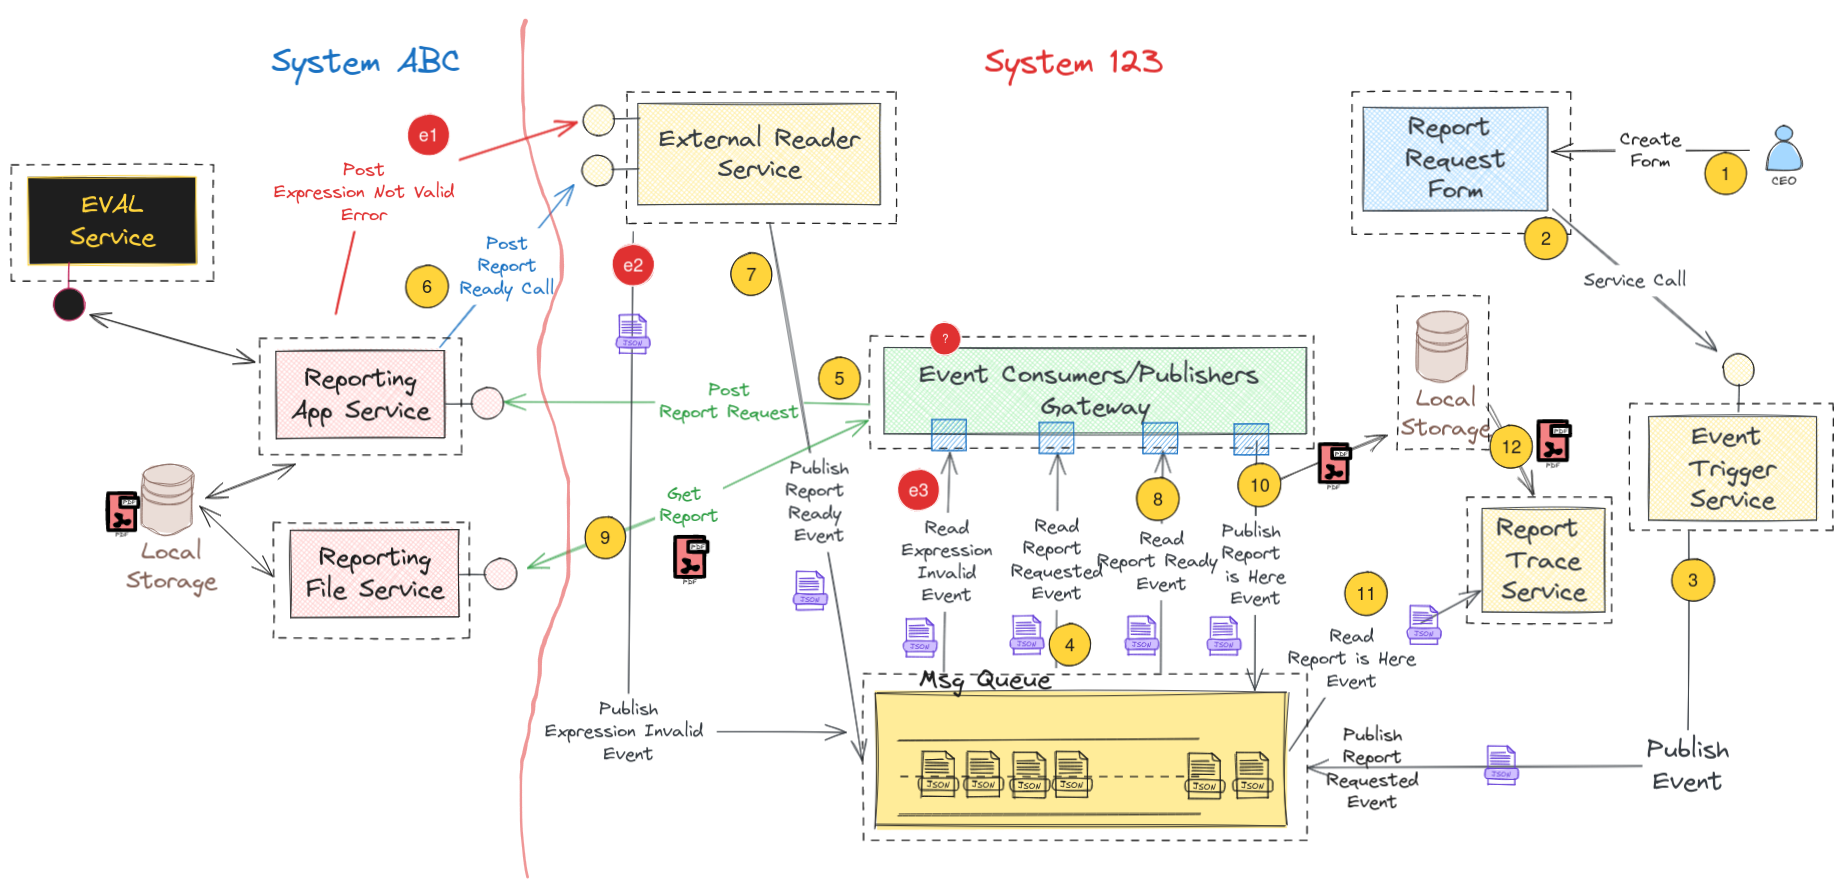
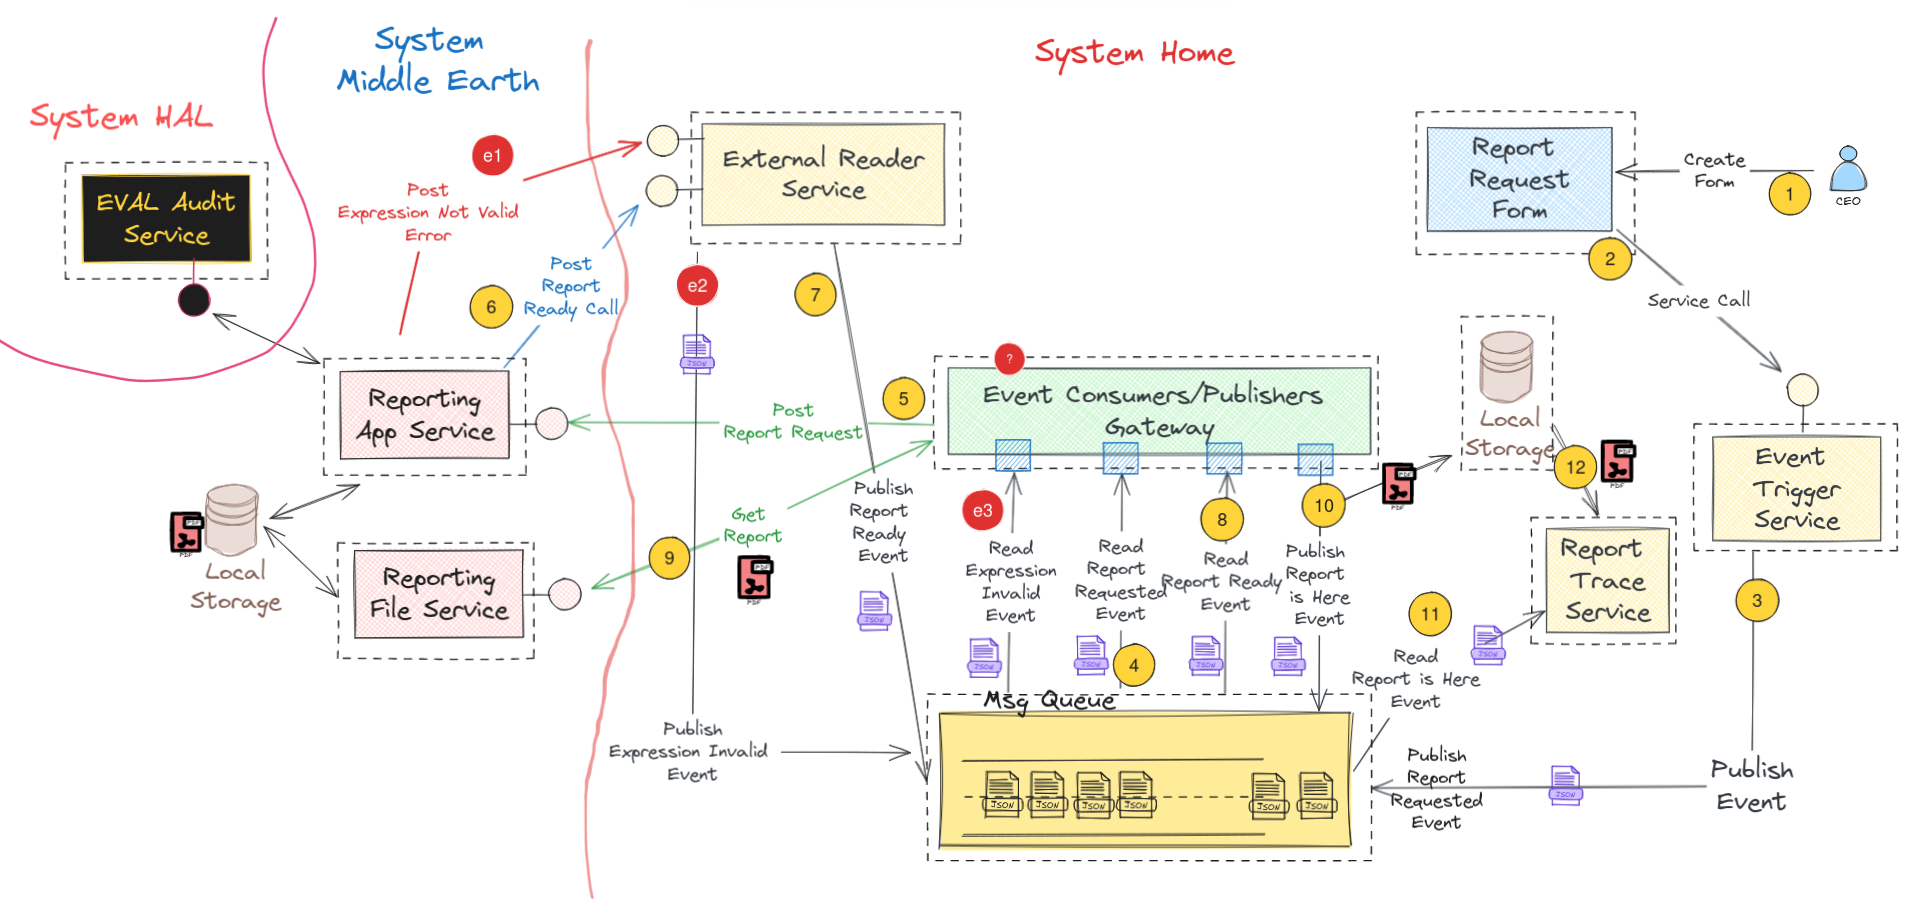
Updated readme document.

diff --git a/README.md b/README.md
@@ -10,6 +10,12 @@ Projeye katkı vermek isteyenler dev branch'inden yeni bir branch açıp ilerley
 
 Kullanıcılarına oyun kiralayan bir internet şirketi olduğunu düşünelim. Şirketin son kullanıcılara _(End Users)_ sunduğu web ve mobile bazlı uygulamalar dışında şirket genel merkezinde kullanılan Back Office tadında farklı bir uygulamaları daha var. Bu uygulamada yer alan ekranlardan birisi de raporlama talepleri için kullanılıyor. Şirketin sahip olduğu veri miktarı ve rapor taleplerinin belli bir onay sürecinden geçip içeriklerini farklı alanlardan toplaması nedeniyle bir raporun çekilmesi bazen birkaç dakikayı bulabiliyor. Her ne kadar şirket içerisinde bu işleri üstelenen bir raporlama ekibi bulunsa da personelin kullandığı web sayfalarında bu şekilde belirsiz süreyle beklenmeleri istenmiyor. Çözüm olarak rapor talebinin girildiği bir formun tasarlanması ve talebin raporlama ekibine ait uygulamalara ulaştırılıp hazır hale geldikten sonra personelin bilgilendirilmesi şeklinde bir yol izlenmesine karar veriliyor. Tüm bu sürecin tamamen sistem tarafından gerçekleştirilmesi ve otomatize edilmesi isteniyor.
 
+```text
+İşte Örnek Bir Rapor İfadesi
+
+Geçtiğimiz yıl kiraladığımız oyunlardan en çok pozitif yorum alan ilk 25 adedinin ülke bazlı satış rakamları.
+```
+
 ## Çözümleme ile İlgili Bilgiler
 
 Buradaki senaryonun çözümü noktasında oldukça basit ilerlemeye çalışacağım. Bu amaçla tek bir solution içerisinde tüm paydaşların .Net tabanlı uygulamaları olacak. Kilit noktalardan birisi raporların hazırlanmasının uzun sürmesi ve bizim backoffice personelinin rapor talep ettiği sayfada iken bekletmek istemeyişimiz. Rapor hazırlandığında ise onu bir şekilde bilgilendirmemiz. Uygulama açıksa belki bir popup ile ve hatta ekstradan e-posta bildirimi ile. Tahmin edileceği üzere aynı Solution içerisinde bir çözümle yapacak olsak da çözüme dahil olan Process'ler network üzerinde farklı lokasyonlardaki Node'larda çalışıyor olabilirler.
@@ -36,7 +42,7 @@ Senaryodaki adımları da aşağıdaki gibi tarifleyelim.
 12. Report Trace Service hizmeti, **ReportIsHereEvent** isimli bir olay yakaladığında **Local Storage**'a gider ve ilgili PDF'i çeker.
 13. Rapor artık hazırdır. Rapor e-posta ile CEO'ya gönderilir ve Local Storage ortamlarında gerekli temizlikler yapılır.
 
-Senaryoda dikkat edileceği üzere bazı ihlal noktaları da vardır. Örneğin Form uygulamasından girilen rapor talebindeki ifade geçersiz olabilir. Sistemden bilgi sızdırmaya yönelik güvensiz ifadeler içerebilir vs. Bu gibi bir durumda System ABC'nin geçersiz bir mesaj olduğuna dair System 123'ü bilgilendirmesi de gerekir. System ABC'nin kendi içinde ele alıp detay loglarla değerlendirdiği bu durum System 123'e bir Event olarak girer ve buna karşılık da bir süreç başlayabilir. Resimde görülen soru işaret kısmı dikkat edileceği üzere hata durumu yakalandıktan sonra ne yapılacağına dairdir. Rapor talebi sahibinin bilgilendirilmesi için e-posta gönderimi, sistem loglarına bilgi düşülmesi, form uygulamasında popup ile bilgilendirme yapılması vs gibi bir işler bütünü başlatılabilir.
+Senaryoda dikkat edileceği üzere bazı ihlal noktaları da vardır. Örneğin Form uygulamasından girilen rapor talebindeki ifade geçersiz olabilir. Sistemden bilgi sızdırmaya yönelik güvensiz ifadeler içerebilir vs. Bu gibi bir durumda SystemMiddleEarth'nin geçersiz bir mesaj olduğuna dair SystemHome'ü bilgilendirmesi de gerekir. SystemMiddleEarth'nin kendi içinde ele alıp detay loglarla değerlendirdiği bu durum SystemHome'e bir Event olarak girer ve buna karşılık da bir süreç başlayabilir. Resimde görülen soru işaret kısmı dikkat edileceği üzere hata durumu yakalandıktan sonra ne yapılacağına dairdir. Rapor talebi sahibinin bilgilendirilmesi için e-posta gönderimi, sistem loglarına bilgi düşülmesi, form uygulamasında popup ile bilgilendirme yapılması vs gibi bir işler bütünü başlatılabilir.
 
 ## Solution için Aday Uygulama Türleri
 
@@ -55,15 +61,15 @@ Senaryoda dikkat edileceği üzere bazı ihlal noktaları da vardır. Örneğin 
 - [ ] Solution yapısı ve proje isimlendirmeleri gözden geçirilebilir.
 - [x] Solution için **Sonarqube** entegrasyonu yapılıp kod kalite metrikleri ölçümlenebilir.
 - [ ] Bazı kütüphaneler için birim testler _(Unit Tests)_ yazılarak **Code Coverage** değerleri yükseltilebilir.
-- [ ] Kahin _(System ABC)_ sistemindeki projeler için ayrı bir **Solution** açılabilir.
+- [ ] Kahin _(SystemMiddleEarth)_ sistemindeki projeler için ayrı bir **Solution** açılabilir.
 - [ ] Loglama altyapısı **Elasticsearch**'e alınabilir.
 - [ ] Messenger servisi **gRPC** türüne evrilebilir.
-- [ ] Bazı **Exception** durumları için **Custom Exception** sınıfları yazılabilir.
+- [ ] Bazı **Exception** durumları için **Custom Exception** sınıfları yazılabilir. Ancak servis tarafında Exception döndürmek yerine hata ile ilgili bilgi barındıran bir Response mesaj döndürülmesi daha iyi olabilir.
 - [ ] Daha önceden çekilmiş raporlar için tekrardan üretim sürecini başlatmak yerine **Redis** tabanlı bir caching sistemi kullanılabilir.
 - [ ] Tüm servisler **HTTPS** protokolünde çalışacak hale getirilebilir.
-- [ ] Uçtan uca testi otomatik olarak yapacak bir **RPA _(Robotik Process Automation)_** eklentisi konulabilir. Belki otomatij **UI** testleri için **Playwright** aracından yararlanılabilir.
+- [ ] Uçtan uca testi otomatik olarak yapacak bir **RPA _(Robotik Process Automation)_** eklentisi konulabilir. Belki otomatik **UI** testleri için **Playwright** aracından yararlanılabilir.
 - [ ] Bazı servislerin ayakta olup olmadıklarını kontrol etmek için bu servislere **HealthCheck** fonksiyonları eklenebilir.
-- [ ] URL adresleri, RabbitMQ ortam bilgileri **(Development, Test, Pre-Production, Production)** gibi alanlar için daha güvenli bir ortamdan **(Secure Vault)** tedarik edilecek şekilde genel bir düzenlemeye gidilebilir.
+- [ ] URL adresleri, **RabbitMQ** ortam bilgileri **(Development, Test, Pre-Production, Production)** gibi alanlar için daha güvenli bir ortamdan **(Secure Vault)** tedarik edilecek şekilde genel bir düzenlemeye gidilebilir.
 - [ ] ...
 
 ## Runtime _(Standart)_
@@ -73,10 +79,10 @@ Senaryoda dikkat edileceği üzere bazı ihlal noktaları da vardır. Örneğin 
 **Not: Buradaki ve çözüme sonradan eklenecek uygulamaları tek seferde çalıştırmak için bir shell script dosyamız var. run_all.sh isimli dosyayı bu amaçla kullanabilirsiniz.**
 
 - [ ] **RabbitMQ**'nun çalışır halde olduğu kontrol edilir. (localhost:15672)
-- [ ] System ABC'deki **Kahin.ReportingGateway** servisi çalıştırılır. (localhost:5218)
-- [ ] System 123'de yer alan **GamersWorld.Messenger** servisi çalıştırılır. Web uygulaması bu servisi kullanır. (localhost:5234)
+- [ ] **SystemMiddleEarth**'deki **Kahin.ReportingGateway** servisi çalıştırılır. (localhost:5218)
+- [ ] **SystemHome**'de yer alan **GamersWorld.Messenger** servisi çalıştırılır. Web uygulaması taleplerini iletmek için bu servisi kullanır. (localhost:5234)
 - [ ] RabbitMQ event'lerini dinleyen **GamersWorld.EventHost** console uygulaması çalıştırılır. Console uygulamasıdır.
-- [ ] Rapor ifadesini denetleyen **Eval.Api** servisi çalıştırılır. (localhost:5147)
+- [ ] Rapor ifadesini denetleyen **SystemHAL** sistemindeki **Eval.AuditApi** servisi çalıştırılır. (localhost:5147)
 - [ ] Rapor talebi girdisi yapılan **GamersWorld.WebApp** çalıştırılır. (localhost:5093)
 
 Bu durumda web uygulamasından örnek bir raporu girilip gönderildiğinde diğer uygulamalarda aşağıdakine benzer log bilgilerinin oluşması beklenir.
@@ -93,7 +99,7 @@ Bu durumda web uygulamasından örnek bir raporu girilip gönderildiğinde diğe
 
 ## Runtime _(Docker Compose Senaryosu)_
 
-Nihai senaryonun işletilmesinde birçok servisin aynı anda ayağa kalkması gereken durumlar söz konusu olacak. Örneğin System ABC tarafındaki raporlama hizmetleri ile System 123 tarafındaki bazı hizmetler birer REST servisi gibi konuşlanabilirler. Asenkron mesajlaşma kuyruğu içinse RabbitMQ kullanmak oldukça mantıklı görünüyor. Event'leri dinleyen Consumer tarafı da bir Console uygulaması. Tüm bunların aynı anda çalıştırılması noktasında Docker Compose' dan yararlanılabilir. Docker-Compose'a dahil olacak her projede birer Dockerfile yer alıyor.
+Nihai senaryonun işletilmesinde birçok servisin aynı anda ayağa kalkması gereken durumlar söz konusu olacak. Örneğin **SystemMiddleEarth** tarafındaki raporlama hizmetleri ile **SystemHome** tarafındaki bazı hizmetler birer **REST** servisi gibi konuşlanabilirler. Asenkron mesajlaşma kuyruğu içinse **RabbitMQ** kullanmak oldukça mantıklı görünüyor. Event'leri dinleyen **Consumer** tarafı da bir **Console** uygulaması. Tüm bunların aynı anda çalıştırılması noktasında Docker Compose' dan yararlanılabilir. Docker-Compose'a dahil olacak her projede birer **Dockerfile** yer alıyor.
 
 ```bash
 # Docker-Compose'u sistemde build edip çalıştırmak için
@@ -110,7 +116,7 @@ docker-compose down
 
 **NOT : Solution içerisindeki Docs klasöründe Thunder Client aracına ait REST test çıktıları yer almaktadır. Bunları VS Code ortamınıza import ederek kullanabilirsiniz.**
 
-Sistemde RabbitMq'yu ayağa kaldırdıktan sonra GamersWorld.EventHost uygulamasını başlattım. İlk mesaj gönderimini test etmek için localhost:15672 portundan ulaştığım RabbitMQ client arabirimini kullandım. Burada Queues and Streams kısmında report_events_queue otomatik olarak oluştu. Publish Message kısmında type özelliğine ReportRequestedEvent değerini verip örnek bir Payload hazırladım.
+Sistemde RabbitMq'yu ayağa kaldırdıktan sonra **GamersWorld.EventHost** uygulamasını başlattım. İlk mesaj gönderimini test etmek için **localhost:15672** portundan ulaştığım **RabbitMQ** client arabirimini kullandım. Burada **Queues** and **Streams** kısmında **report_events_queue** otomatik olarak oluştu. **Publish Message** kısmında type özelliğine ReportRequestedEvent değerini verip örnek bir Payload hazırladım.
 
 ```json
 {
@@ -126,7 +132,7 @@ Mesajı Publish ettikten sonra host uygulama tarafından otomatik olarak yakalan
 
 ## İkinci Temas (30 Mayıs 2024, 22:00 suları)
 
-System 123'te System ABC'nin bilgilendirme amaçlı olarak kullanacağı _(Rapor hazır, rapor ifadesinde hata var vb durumlar için)_ GateWayProxy isimli bir Web Api yer alıyor. Bu serviste kendisine gelen mesajlara göre ReportReadyEvent veya InvalidExpressionEvent gibi olayları üretiyor. Dolayısıyla rabbit mq kuyruğunu kullanan bir servis söz konusu. Bu servise aşağıdaki gibi örnek talepler gönderebildim.
+SystemHome'te SystemMiddleEarth'nin bilgilendirme amaçlı olarak kullanacağı _(Rapor hazır, rapor ifadesinde hata var vb durumlar için)_ **GateWayProxy** isimli bir **Web Api** yer alıyor. Bu serviste kendisine gelen mesajlara göre ReportReadyEvent veya InvalidExpressionEvent gibi olayları üretiyor. Dolayısıyla rabbit mq kuyruğunu kullanan bir servis söz konusu. Bu servise aşağıdaki gibi örnek talepler gönderebildim.
 
 Rapor hazır taklidi yapan bir mesaj.
 
@@ -158,13 +164,13 @@ Rapordaki ifadede ihlal var taklidi yapan bir mesaj.
 
 ## SonarQube Genişletmesi
 
-Projenin teknik borçlanma değerlerini ölçümlemek ve kod kalitesini iyileştirmek için Sonarqube aracını kullanmaya karar verdim. Local ortamda Sonarqube kurulumu için Docker imajından yararlanılabilir. Öncelikle sistemde aşağıdaki gibi bir kurulum yapılır.
+Projenin teknik borçlanma değerlerini ölçümlemek ve kod kalitesini iyileştirmek için **Sonarqube** aracını kullanmaya karar verdim. **Local** ortamda **Sonarqube** kurulumu için Docker imajından yararlanılabilir. Öncelikle sistemde aşağıdaki gibi bir kurulum yapılır.
 
 ```bash
 sudo docker run -d --name sonarqube -e SONAR_ES_BOOTSTRAP_CHECKS_DISABLE=true -p 9000:9000 sonarqube:latest
 ```
 
-Kurulum sonrası http://localhost:9000 adresine gidilir ve standart kullanıcı adı ve şifre ile giriş yapılır _(admin,admin)_ Sistem ilk girişte şifre değişikliği istenebilir. Sonrasında bir proje oluşturulur. Bende DistributedChallengeProject isimli bir proje oluşturdum ve .Net Core taraması yapması için gerekli adımları işlettim. SQ, proje için bir key üretecektir. Bu key değerinden yararlanılarak tarama aşağıdaki terminal komutları ile başlatılabilir. Zaten anahtar değer üretimi sonrası SQ hangi komutları çalıştıracağınızı dokümanda gösterir.
+Kurulum sonrası **http://localhost:9000** adresine gidilir ve standart kullanıcı adı ve şifre ile giriş yapılır _(admin,admin)_ Sistem ilk girişte şifre değişikliği istenebilir. Sonrasında bir proje oluşturulur. Bende **DistributedChallengeProject** isimli bir proje oluşturdum ve .Net Core taraması yapması için gerekli adımları işlettim. SQ, proje için bir key üretecektir. Bu key değerinden yararlanılarak tarama aşağıdaki terminal komutları ile başlatılabilir. Zaten anahtar değer üretimi sonrası SQ hangi komutları çalıştıracağınızı dokümanda gösterir.
 
 ```bash
 # Sistem yüklü olması gereken araçlardan birisi
@@ -192,9 +198,9 @@ Yukarıda bahsedilen senaryoda sisteme dahil olan tüm uygulamaların aynı firm
 
 ## Bazı Düşünceler _(Some Thoughts)_
 
-- Senaryoda farklı sistemler olduğunu düşünmeliyiz. **System ABC** raporlama tarafını üstleniyor. Gelen rapor ifadesini anlamlı bir betiğe dönüştürmek, işletmek, pdf gibi çıktısını hazırlamak ve hazır olduğuna dair **System 123**' ü bilgilendirmek görevleri arasında. Kendi içerisindeki süreçlerin yönetiminde de **Event** bazlı bir yaklaşıma gidebilir. Söz gelimi ifadenin bir **Gen AI** ile anlamlı hale dönüştürülmesi birkaç saniye sürebilecek bir iş olabilir. Dönüştürme işi başarısız ise bununla ilgili olarak da **System 123**'ü bilgilendirmesi gerekebilir. Dolayısıyla bu da yeni bir olayın üretilmesi, **System 123**'e aktarılması ve **System 123** tarafında bu hatanın ele alınmasını gerektirecektir _(Çizelgede e1 ile ifade edilen kısım)_ Tüm çözümü zorlaştırmamak adına belki bu kısım şimdilik atlanabilir.
+- Senaryoda farklı sistemler olduğunu düşünmeliyiz. **SystemMiddleEarth** raporlama tarafını üstleniyor. Gelen rapor ifadesini anlamlı bir betiğe dönüştürmek, işletmek, pdf gibi çıktısını hazırlamak ve hazır olduğuna dair **SystemHome**' ü bilgilendirmek görevleri arasında. Kendi içerisindeki süreçlerin yönetiminde de **Event** bazlı bir yaklaşıma gidebilir. Söz gelimi ifadenin bir **Gen AI** ile anlamlı hale dönüştürülmesi birkaç saniye sürebilecek bir iş olabilir. Dönüştürme işi başarısız ise bununla ilgili olarak da **SystemHome**'ü bilgilendirmesi gerekebilir. Dolayısıyla bu da yeni bir olayın üretilmesi, **SystemHome**'e aktarılması ve **SystemHome** tarafında bu hatanın ele alınmasını gerektirecektir _(Çizelgede e1 ile ifade edilen kısım)_ Tüm çözümü zorlaştırmamak adına belki bu kısım şimdilik atlanabilir.
 - **Expression Interpretter :** Rapor talebi yapılan ekranda girilen isteğin anlaşılarak bir **SQL** ifadesine dönüştürülmesinde **Gen AI** araçlarına ait bir **API**'den yararlanabiliriz. Örneğin metin kutusuna **"Son bir yılda yapılan oyun satışlarından, en olumlu yorum sayısına sahip ilk 50sini getir"** dediğimizde Gen AI API'si bunu anlayıp raporlama tarafından çalıştırılması istenen SQL ifadesini veya farklı bir script ifadeyi hazırlayıp Event mesajına bilgi olarak bırakabilir.
 - **İsimlendirmeler** konusu da önemli. **Event** olarak ifade ettiğimiz nesneler esasında process'lerde oluşturulup mesaj kuyruğuna bırakılan **POCO**'lar _(Plain Old CLR Objects)_ Bunları kullanan business nesnelerimiz de var. Yani bir olayla ilgili aksiyon alan _(bir eylem icra eden)_ sınıflar. Bunlar ortak sözleşmeleri _(interfaces)_ uygulamak durumundalar ki **Dependency Injection Container** çalışma zamanlarınca çalıştırılabilsinler. Tüm bunlarda proje, nesne, metot, değişken isimlendirmeleri kod okunurluğu ve başka programcıların kodu anlaması, neyi nereye koymaları gerektiğini kolayca bulması açısından mühim bir mesele.
-- **gRPC Taşımaları :** Sistem içerisinde koşan servislerden bazılarını **REST** tabanlı tasarlamak yerine **gRPC** gibi de tasarlayabiliriz. **System ABC** ile **System 123**'ün aralarında Internet olduğunu düşünürsek buradaki haberleşme kanalları pekala **REST** Api'ler ile tesis edilebilir.
+- **gRPC Taşımaları :** Sistem içerisinde koşan servislerden bazılarını **REST** tabanlı tasarlamak yerine **gRPC** gibi de tasarlayabiliriz. **SystemMiddleEarth** ile **SystemHome**'ün aralarında Internet olduğunu düşünürsek buradaki haberleşme kanalları pekala **REST** Api'ler ile tesis edilebilir.
 - **Resilience Durumları :** Her iki sistemde de ağ üzerinden HTTP protokolleri ile erişilen servisler söz konusu. Bu servislere erişilememe, beklenen sürede cevap alamama gibi durumlar oluşabilir. Dağıtık mimarilerin doğası gereği bunlar olası. Dolayısıyla Resilience stratejilerini de işin içerisine katmak gerekebilir. Bu sürecin ilerki aşamalarında değerlendirebileceğim bir mevzu.
-- **Performans İyileştirmeleri :** Benzer raporlar şirket kademesindeki farklı personeller tarafından talep edilebilir. Raporun geçerliliğine göre kabul edilebilir bir zaman dilim boyunca rapor taleplerinin System ABC tarafında cache'lenerek saklanması düşünülebilir. System 123 tarafından yapılan bir rapor talebi bilindiği üzere Kahin sistemine ulaştığında 3ncü parti bir servis sağlayıcı API'si kullanılarak geçerli bir sorgu ifadesine de dönüştürülüyor. Bu kısımda yapılan Evaluate işlemini aynı türde talepler için bir cache mekanizması ile pekala destekleyebiliriz. Bu Gen AI bazlı yorumlayıcının gereksiz yere çağrılmasının da önüne geçer ve hem kaynak tüketimi hem de hızlı reaksiyon verilmesi babında işleri iyileştirir.
+- **Performans İyileştirmeleri :** Benzer raporlar şirket kademesindeki farklı personeller tarafından talep edilebilir. Raporun geçerliliğine göre kabul edilebilir bir zaman dilim boyunca rapor taleplerinin **SystemMiddleEarth** tarafında cache'lenerek saklanması düşünülebilir. **SystemHome** tarafından yapılan bir rapor talebi bilindiği üzere Kahin sistemine ulaştığında 3ncü parti bir servis sağlayıcı API'si kullanılarak geçerli bir sorgu ifadesine de dönüştürülüyor. Bu kısımda yapılan Evaluate işlemini aynı türde talepler için bir cache mekanizması ile pekala destekleyebiliriz. Bu Gen AI bazlı yorumlayıcının gereksiz yere çağrılmasının da önüne geçer ve hem kaynak tüketimi hem de hızlı reaksiyon verilmesi babında işleri iyileştirir.
